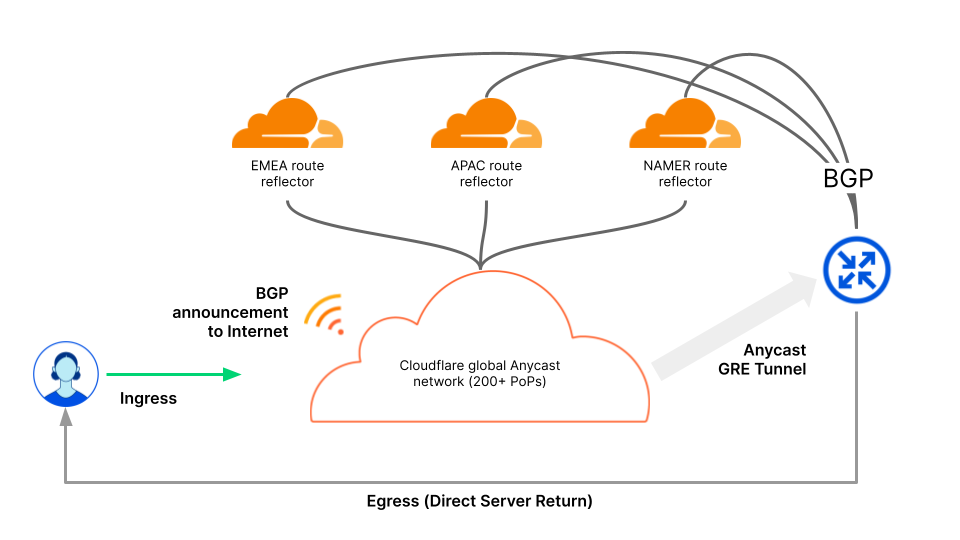
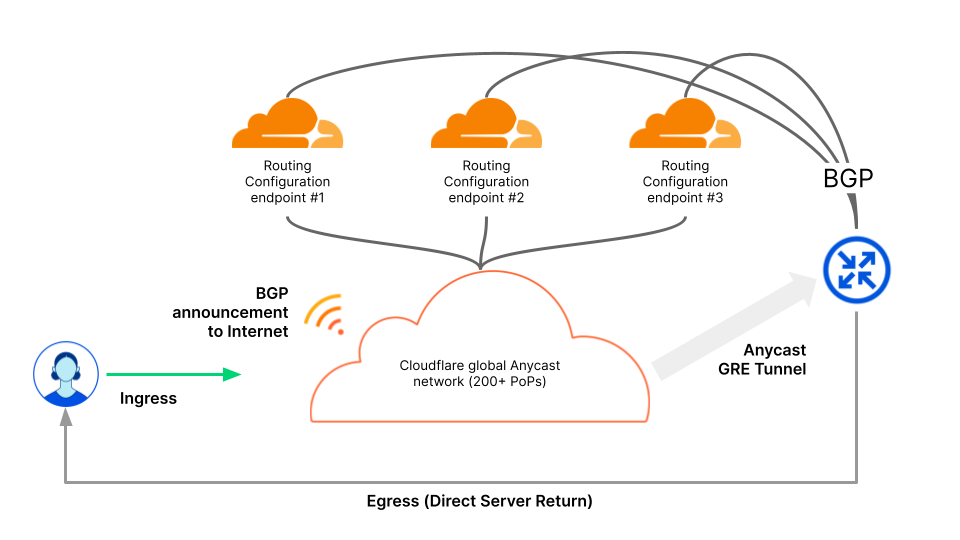
Updated content based on PM feedback (#2016)

Changed region(s): [[0.25, 0.2963, 0.75, 0.5037], [0.4688, 0.2963, 0.5625, 0.3852]]

diff --git a/products/magic-transit/src/content/set-up/provide-configuration-data/specify-prefixes-to-advertise.md b/products/magic-transit/src/content/set-up/provide-configuration-data/specify-prefixes-to-advertise.md
@@ -33,7 +33,7 @@ If you do not have an ASN or do not want to bring your ASN to Cloudflare, you ca
 
 ## Border Gateway Protocol (BGP) control for advertisements
 
-Use BGP to control the status of your prefix — advertised or withdrawn — from Cloudflare's edge for more flexibility and control over your routes. The BGP controlled advertisement system works by establishing BGP sessions to Cloudflare's route reflector devices, which propagate BGP routes globally across all the locations at Cloudflare's edge.
+Use BGP to control the status of your prefix — advertised or withdrawn — from Cloudflare's edge for more flexibility and control over your routes. The BGP controlled advertisement system works by establishing BGP sessions to Cloudflare's routing endpoints, which propagate BGP routes globally across all the locations at Cloudflare's edge.
 
 To prevent unexpected behavior, you must use either BGP control or dynamic advertisement for your prefixes but you cannot use both.
 
